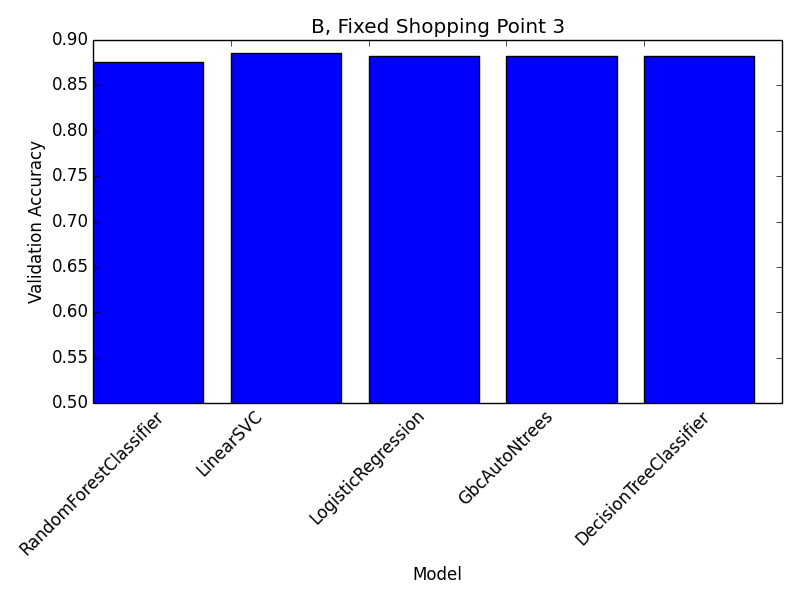
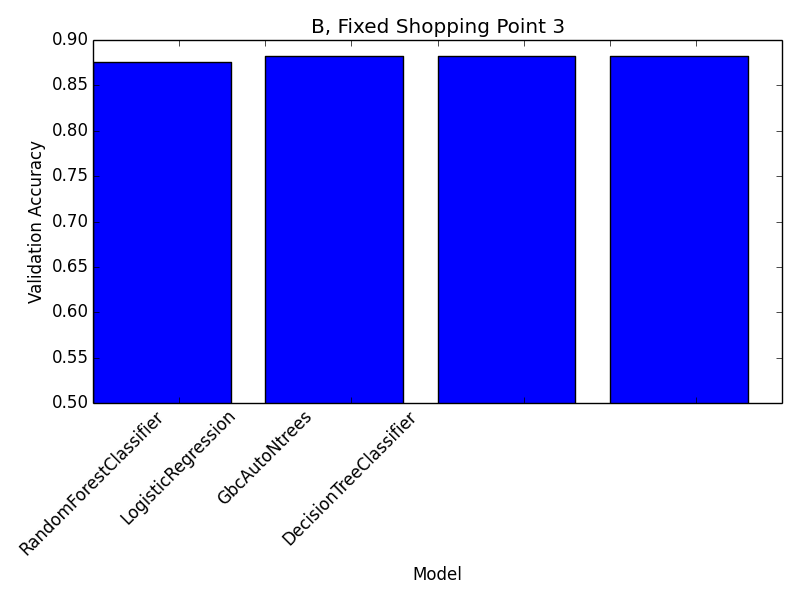
added predictor transform

diff --git a/python/classify_plans_independently.py b/python/classify_plans_independently.py
@@ -8,11 +8,83 @@ import os
 import multiprocessing
 import cPickle
 import time
+from sklearn.linear_model import LogisticRegression
+from sklearn.tree import DecisionTreeClassifier
+from sklearn.ensemble import RandomForestClassifier
 
 base_dir = os.environ['HOME'] + '/Projects/Kaggle/allstate/'
 data_dir = base_dir + 'data/'
 
 njobs = multiprocessing.cpu_count() - 1
+
+
+def logit(x):
+    return np.log(x / (1.0 - x))
+
+
+def transform_inputs(training_set, test_set):
+    print 'Transforming inputs...'
+    # transform time to be periodic
+    training_set['time'] = np.cos(training_set['time'] * np.pi / 12.0)
+    test_set['time'] = np.cos(test_set['time'] * np.pi / 12.0)
+    xmean = np.mean(np.append(training_set['time'].values, test_set['time'].values))
+    xsigma = np.std(np.append(training_set['time'].values, test_set['time'].values))
+    # standardize
+    training_set['time'] = (training_set['time'] - xmean) / xsigma
+    test_set['time'] = (test_set['time'] - xmean) / xsigma
+
+    lincols = ['car_age', 'duration_previous']
+    for c in lincols:
+        # do sqrt transform since these predictors can have a value of zero
+        training_set[c] = np.sqrt(training_set[c])
+        test_set[c] = np.sqrt(test_set[c])
+        # standardize
+        xmean = np.mean(np.append(training_set[c].values, test_set[c].values))
+        xsigma = np.std(np.append(training_set[c].values, test_set[c].values))
+        # standardize
+        training_set[c] = (training_set[c] - xmean) / xsigma
+        test_set[c] = (test_set[c] - xmean) / xsigma
+
+    logcols = ['car_value', 'risk_factor', 'age_oldest', 'age_youngest', 'cost']
+    # first recenter values
+    training_set['age_oldest'] -= 17.0
+    training_set['age_youngest'] -= 15.0
+    test_set['age_oldest'] -= 17.0
+    test_set['age_youngest'] -= 15.0
+    training_set['cost'] -= 250.0
+    test_set['cost'] -= 250.0
+    for c in logcols:
+        # do log transform since these predictors can have a value of zero
+        training_set[c] = np.log(training_set[c]).astype(np.float32)
+        test_set[c] = np.log(test_set[c]).astype(np.float32)
+        # standardize
+        xmean = np.mean(np.append(training_set[c].values, test_set[c].values))
+        xsigma = np.std(np.append(training_set[c].values, test_set[c].values))
+        # standardize
+        training_set[c] = (training_set[c] - xmean) / xsigma
+        test_set[c] = (test_set[c] - xmean) / xsigma
+
+    logit_cols = []
+    for c in training_set.columns:
+        if 'fraction' in c:
+            logit_cols.append(c)
+
+    for c in logit_cols:
+        # do logit transform since these predictors can have a value of zero
+        training_set[c][training_set[c] == 0] = 0.01
+        training_set[c][training_set[c] == 1] = 0.99
+        test_set[c][test_set[c] == 0] = 0.01
+        test_set[c][test_set[c] == 1] = 0.99
+        training_set[c] = logit(training_set[c])
+        test_set[c] = logit(test_set[c])
+        # standardize
+        xmean = np.mean(np.append(training_set[c].values, test_set[c].values))
+        xsigma = np.std(np.append(training_set[c].values, test_set[c].values))
+        # standardize
+        training_set[c] = (training_set[c] - xmean) / xsigma
+        test_set[c] = (test_set[c] - xmean) / xsigma
+
+    return training_set, test_set
 
 
 def fit_fixed_shopping_pt(training_set, response, category, test_set):
@@ -23,11 +95,17 @@ def fit_fixed_shopping_pt(training_set, response, category, test_set):
     :param response: The classes for this category, a Pandas Series object.
     """
     # refine the more computationally-demanding estimators less
-    n_refinements = {'LogisticRegression': 3,
-                     'DecisionTreeClassifier': 3,
-                     'LinearSVC': 3,
+    n_refinements = {'LogisticRegression': 1,
+                     'DecisionTreeClassifier': 1,
                      'RandomForestClassifier': 1,
-                     'GbcAutoNtrees': 1}
+                     'GbcAutoNtrees': 0}
+    # set the tuning ranges manually
+    tuning_ranges = {'LogisticRegression': {'C': list(np.logspace(-2.0, 0.0, 5))},
+                     'DecisionTreeClassifier': {'max_depth': [5, 10, 20, 50, None]},
+                     'RandomForestClassifier': {'max_features':
+                                                list(np.unique(np.linspace(2,
+                                                                           training_set.shape[1], 5).astype(np.int)))},
+                     'GbcAutoNtrees': {'max_depth': [1, 2, 3, 4]}}
 
     shopping_points = training_set.index.get_level_values(1).unique()
 
@@ -35,17 +113,28 @@ def fit_fixed_shopping_pt(training_set, response, category, test_set):
 
     y_predict = pd.DataFrame(data=np.zeros((len(test_cust_ids), len(n_refinements)), dtype=np.int), index=test_cust_ids,
                              columns=n_refinements.keys())
+    y_predict['Combined'] = 0
     y_predict.name = category
 
     # for spt in range(2, max(shopping_points) + 1):
-    for spt in range(2, 5):
+    for spt in range(2, 4):
         print 'Training for shopping Point', spt
-        X = training_set.xs(spt, level=1)
-        y = response.ix[X.index].values
-        X = X.values
+        X_train = training_set.xs(spt, level=1)
+        X_test = test_set.xs(spt, level=1)
+        y = response.ix[X_train.index]
+        # transform and standardize predictors
+        X_train, X_test = transform_inputs(X_train, X_test)
 
-        suite = ClassificationSuite(n_features=X.shape[1], njobs=njobs, cv=np.max((5, njobs)), verbose=True)
-        suite.fit(X, y, n_refinements=n_refinements)
+        # initialize the list of sklearn objects corresponding to different statistical models
+        models = []
+        models.append(LogisticRegression(penalty='l1', class_weight='auto'))
+        models.append(DecisionTreeClassifier())
+        models.append(RandomForestClassifier(n_estimators=500, oob_score=True, n_jobs=njobs, max_depth=25))
+        models.append(GbcAutoNtrees(subsample=0.5, n_estimators=1000, learning_rate=0.01))
+
+        suite = ClassificationSuite(n_features=X_train.shape[1], tuning_ranges=tuning_ranges, njobs=njobs,
+                                    cv=np.max((5, njobs)), verbose=True, models=models)
+        suite.fit(X_train.values, y.values, n_refinements=n_refinements)
 
         print 'Pickling models...'
         cPickle.dump(suite, open(data_dir + 'models/sklearn_suite_shopping_point' + str(spt) + '_category' +
@@ -70,11 +159,11 @@ def fit_fixed_shopping_pt(training_set, response, category, test_set):
 
         # predict the test data
         print 'Predicting the class for the test set...'
-        X_test = test_set.xs(spt, level=1)
         test_cust_ids = X_test.index  # only update customers that have made it to this shopping point
         spt_predict = suite.predict_all(X_test.values)
-        for c in y_predict.columns:  # loop over the models
+        for c in n_refinements.keys():  # loop over the models
             y_predict.ix[test_cust_ids, c] = spt_predict[c]
+        y_predict.ix[test_cust_ids, 'Combined'] = suite.predict(X_test.values)
 
     return y_predict
 
@@ -88,15 +177,8 @@ if __name__ == "__main__":
     training_set = pd.read_hdf(data_dir + 'training_set.h5', 'df')
     test_set = pd.read_hdf(data_dir + 'test_set.h5', 'df')
 
-    # fill_values = {'risk_factor': training_set['risk_factor'].mean(),
-    #                'duration_previous': training_set['duration_previous'].mean()}
-    #
-    # training_set = training_set.fillna(value=fill_values)
-    # test_set = test_set.fillna(value=fill_values)
-    #
-    # customer_ids = training_set.index.get_level_values(0).unique()
-
     # for testing, reduce number of customers
+    # customer_ids = training_set.index.get_level_values(0).unique()
     # training_set = training_set.select(lambda x: x[0] < customer_ids[1000], axis=0)
 
     customer_ids = training_set.index.get_level_values(0).unique()
@@ -109,7 +191,8 @@ if __name__ == "__main__":
 
     training_set = training_set[training_set['record_type'] == 0]
 
-    not_predictors = ['record_type', 'day', 'state', 'location', 'group_size', 'C_previous', 'planID']
+    not_predictors = ['record_type', 'day', 'state', 'location', 'group_size', 'C_previous', 'planID',
+                      'most_common_plan']
     training_set = training_set.drop(not_predictors, axis=1)
     test_set = test_set.drop(not_predictors, axis=1)
 
